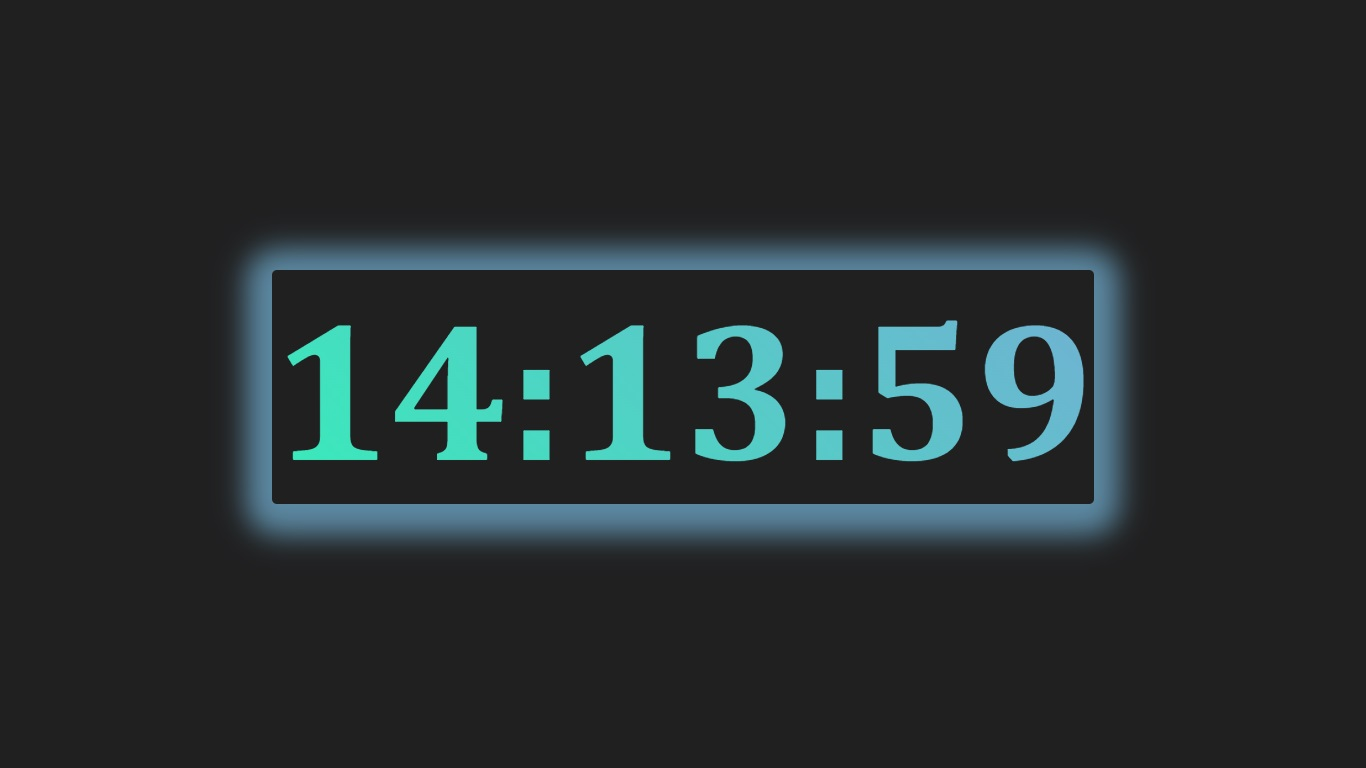
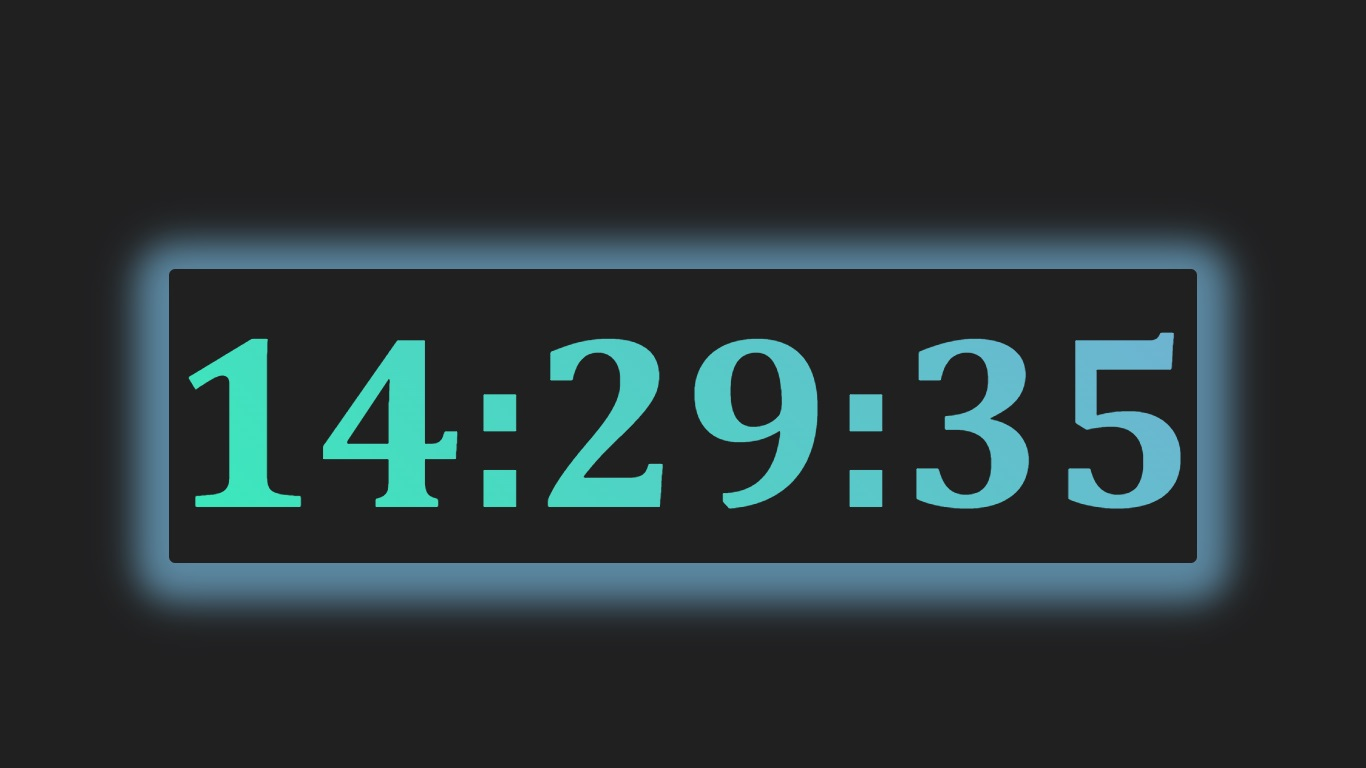
final digital clock

Changed region(s): [[0.0615, 0.2812, 0.9224, 0.8125]]

diff --git a/index.html b/index.html
@@ -60,13 +60,13 @@
                                 Digital Clock
                             </h2>
                             <p>
-                                Lorem ipsum dolor sit amet consectetur adipisicing elit. Sequi eligendi beatae atque dolorum officia ipsum vitae, autem ut, aperiam laborum pariatur ipsa id enim ex rerum dolores similique ipsam nihil.
+                                HTML, CSS, JavaScript.
                             </p>
                         </div>
                     </div>
                     <div class="projects_btn">
-                        <a class="projects_btn_1 btn" href="#"> OPEN PROJECT</a>
-                        <a class="projects_btn_2 btn" href="#"> VIEW GITHUB</a>
+                        <a class="projects_btn_1 btn" href="https://lumenatom.github.io/Digital-clock/"> OPEN PROJECT</a>
+                        <a class="projects_btn_2 btn" href="https://github.com/Lumenatom/Digital-clock"> VIEW GITHUB</a>
                     </div>
                 </div>
                 <div class="projects_block block_2">

diff --git a/style.css b/style.css
@@ -151,6 +151,7 @@ header {
     background-color: rgb(13, 73, 185);
     /* background: linear-gradient(135deg, #7c1818 0%, #0e3846 70%); */
     transition: 0.1s linear;
+    border-radius: 5px;
 }
 
 
